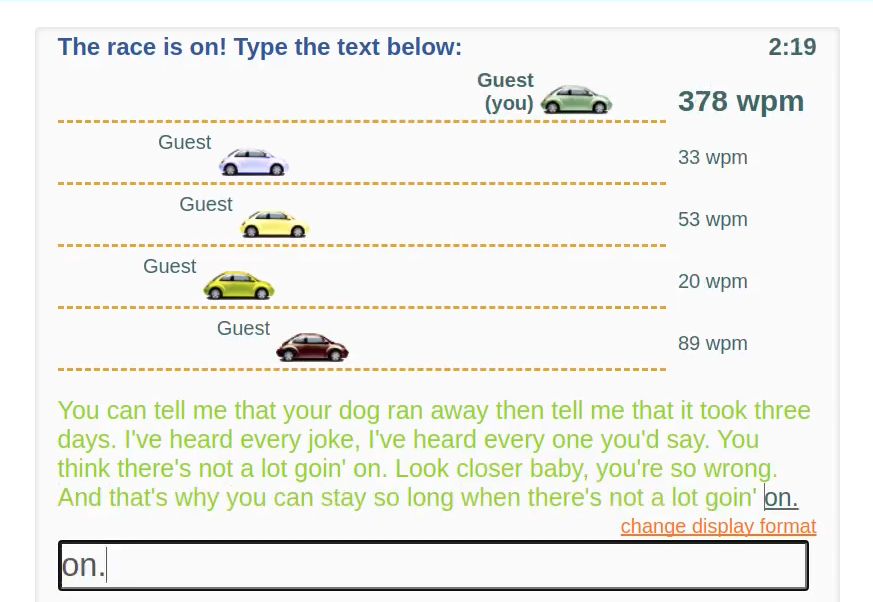
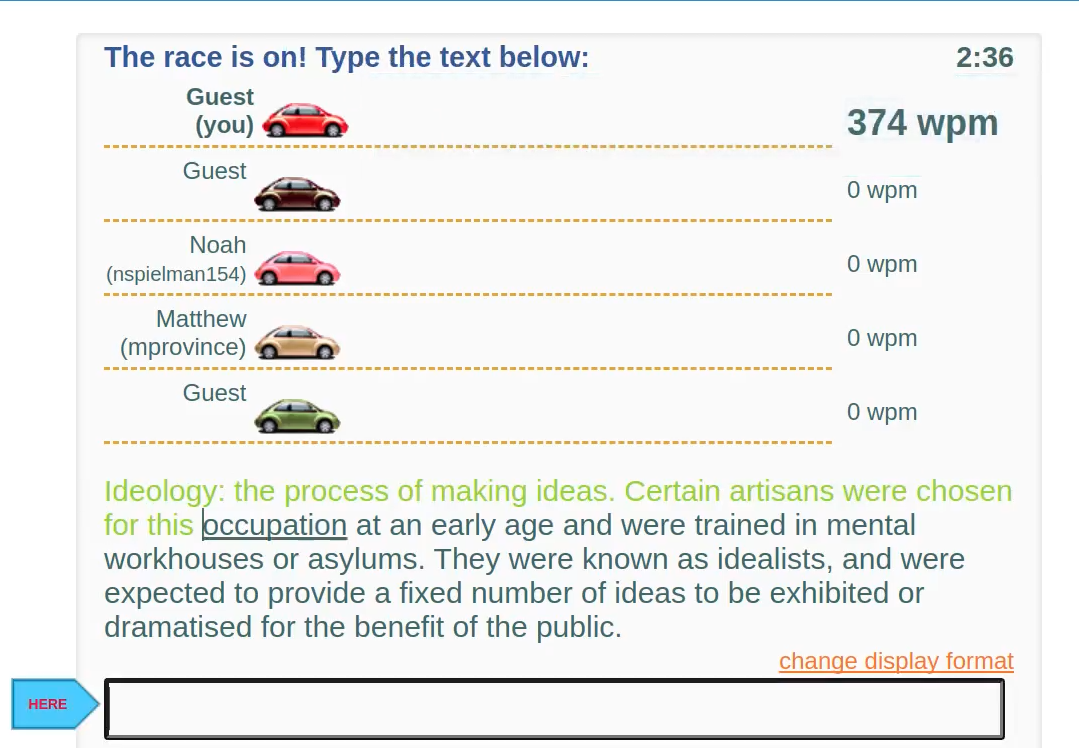
add quizlet proj

diff --git a/index.md b/index.md
@@ -37,19 +37,28 @@ feature_row_3:
   - image_path: /assets/images/isola-game.png
     title: "Isola Game"
     excerpt: An easy to learn 2 player turned based game, Isola involves players moving and destroying blocks in an attempt to isolate the opposing player. After learning about the minimax algorithm in Stanford CS221 (Intro to AI), I decided to implement it in a more difficult setting, since Isola requires 2 moves per turn rather than per alternating moves.
+    url: https://github.com/dchen327/isola-game
+    btn_label: Source Code
+    btn_class: "btn--large btn--success"
 
 feature_row_4:
-  - image_path: /assets/images/sample_img3.jpg
-    title: "Example Title 1"
-    excerpt: Content goes here?
-
+  - image_path: /assets/images/quizlet-scatter.png
+    title: "Quizlet Scatter"
+    excerpt: Quizlet Scatter is a fun flashcard matching mini-game. Using a combination of selenium webdriver and PyAutoGui, this program grabs all pairs and matches them as quickly as possible.
+    url: https://github.com/dchen327/quizlet-scatter
+    btn_label: Source Code
+    btn_class: "btn--large btn--success"
 feature_row_5:
-  - image_path: /assets/images/typeracer.jpg
-    title: "Typeracer Bot"
+  - image_path: /assets/images/typeracer.png
+    title: "TypeRacer Bot"
+    excerpt: A fun usage of selenium webdriver for web automation, this script grabs and inputs text at high speeds in TypeRacer.
+    url: https://github.com/dchen327/typing-test-bots
+    btn_label: Source Code
+    btn_class: "btn--large btn--success"
 feature_row_6:
   - image_path: /assets/images/sample_img2.jpg
-    title: "Example Title 3"
-    excerpt: "Content 3"
+    title: "Ambient Light Color Adjuster"
+    excerpt: "epic"
 ---
 
 <h1 id="About" style="font-size: 3em; text-align: center">About Me</h1>
